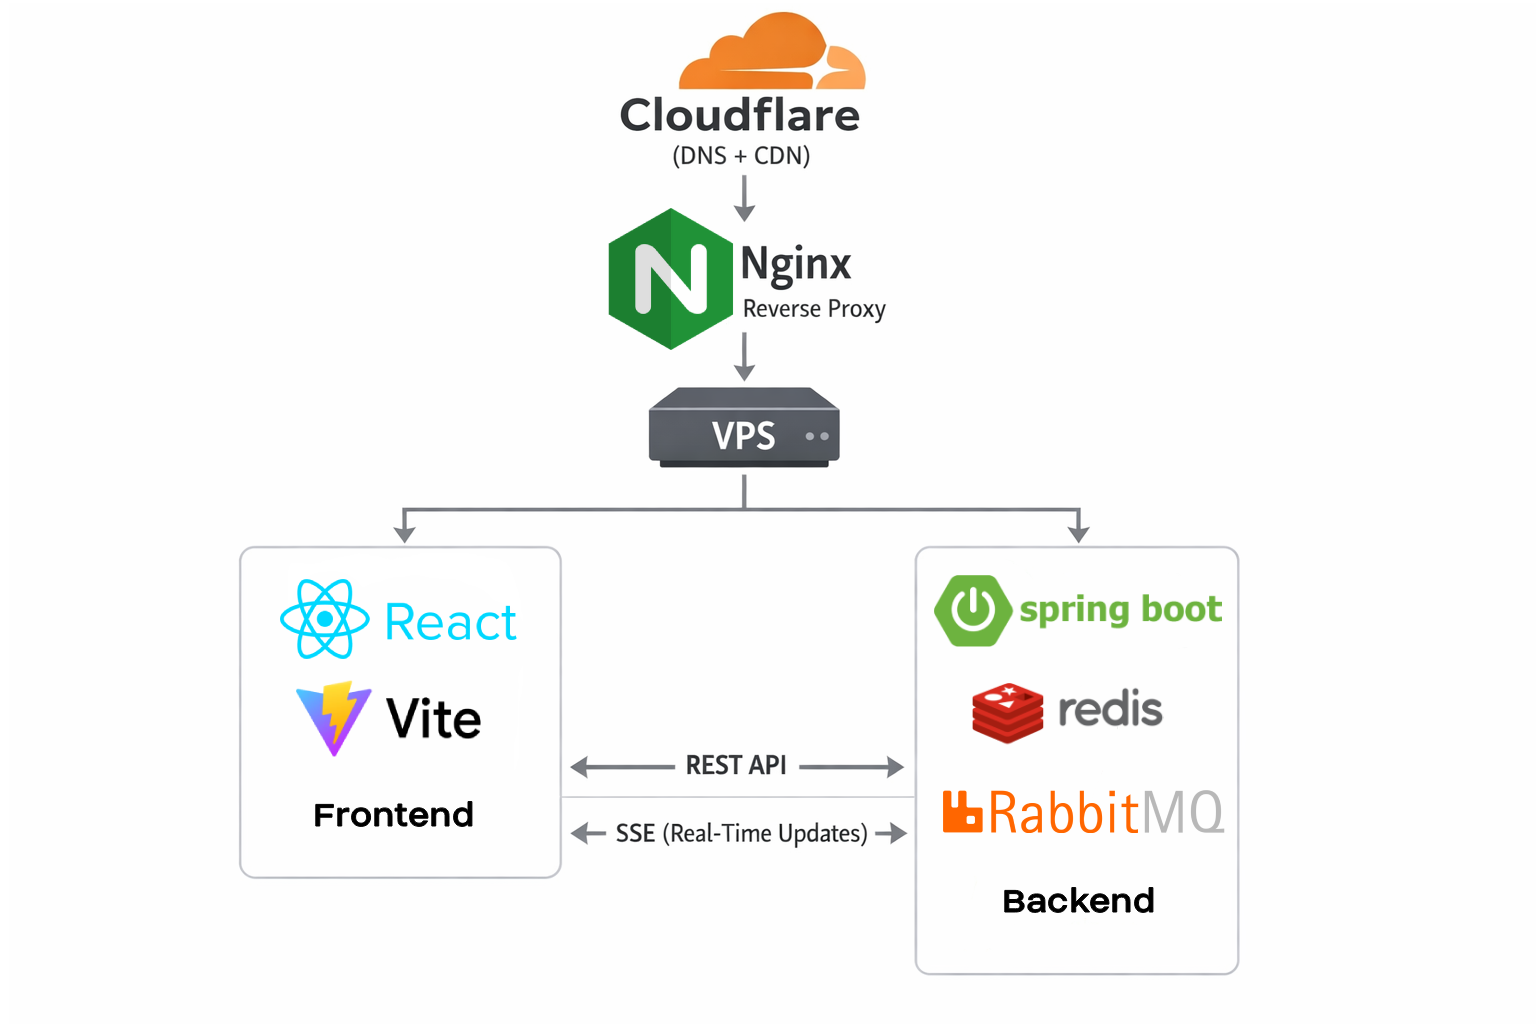
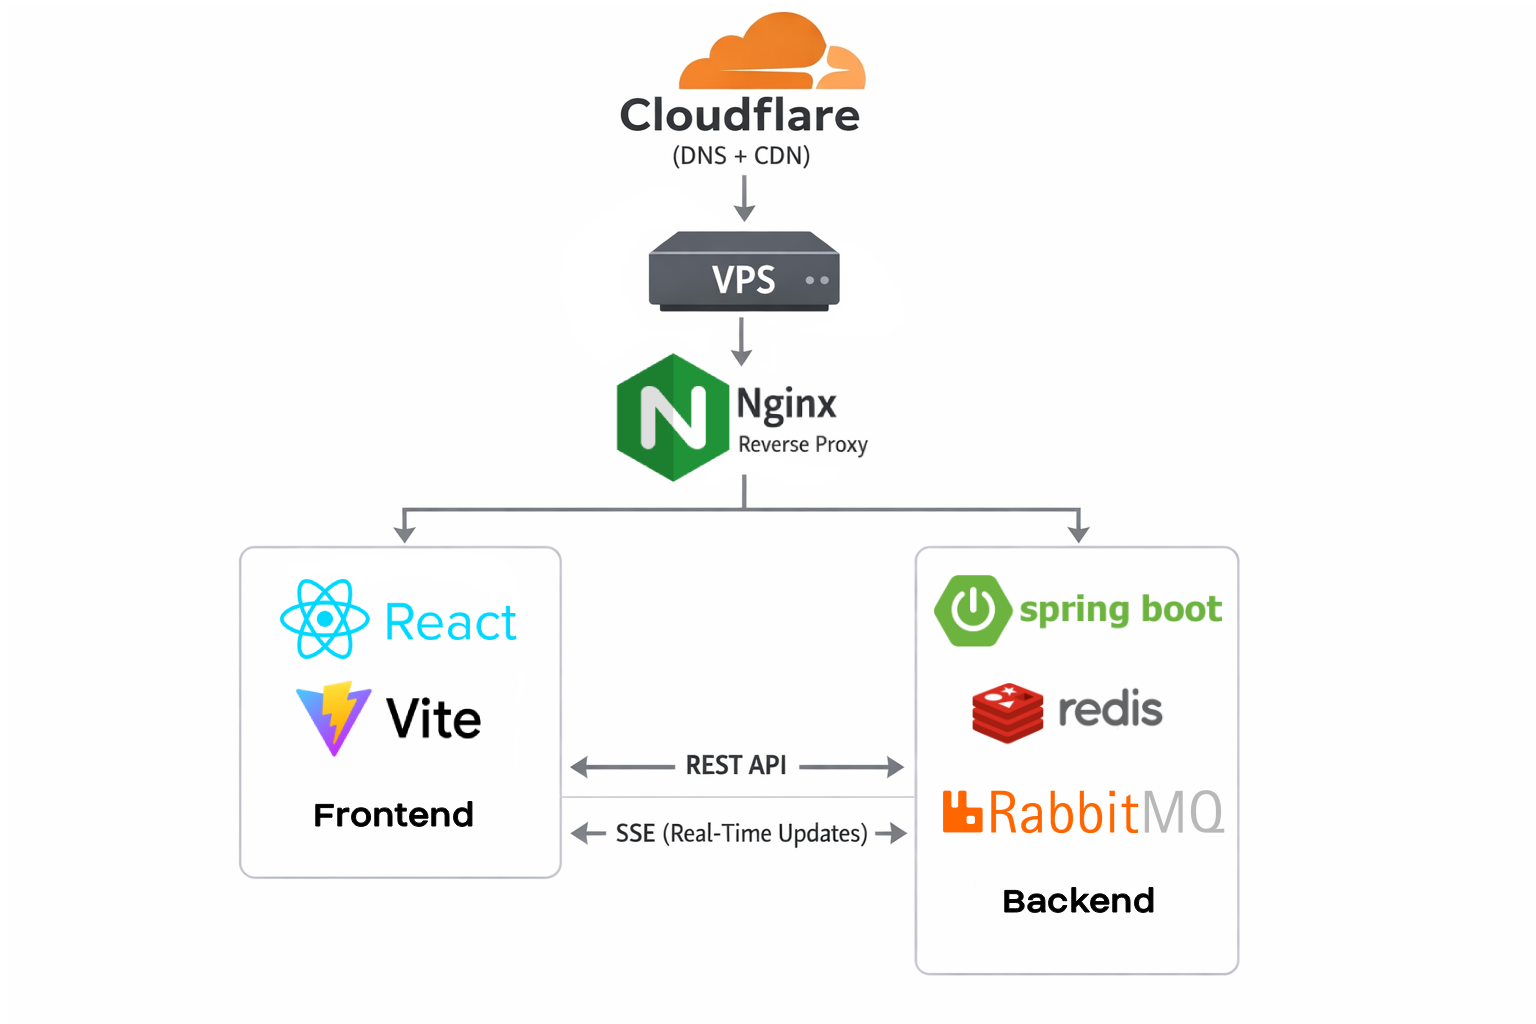
docs: add live app link to README and update architecture diagram

Changed region(s): [[0.375, 0.1875, 0.5938, 0.4688]]

diff --git a/README.md b/README.md
@@ -2,6 +2,8 @@
 
 Trackera is a web-based worklog tracking and task management tool designed to help teams and individuals monitor tasks, track time, and improve productivity. It integrates with Jira, supports Excel worklog uploads, and offers a modern UI.
 
+🌐 **Live App:** [https://trackera.mdevs.cloud](https://trackera.mdevs.cloud)
+
 ---
 
 ## Table of Contents
